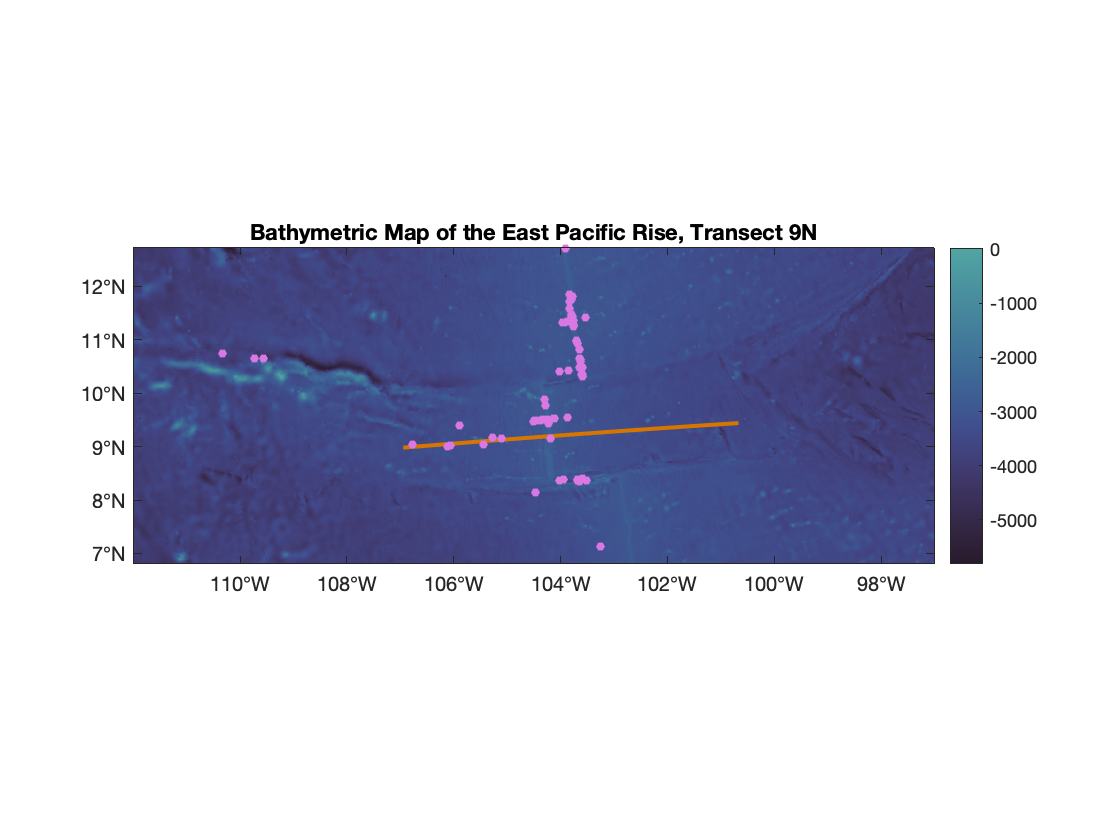
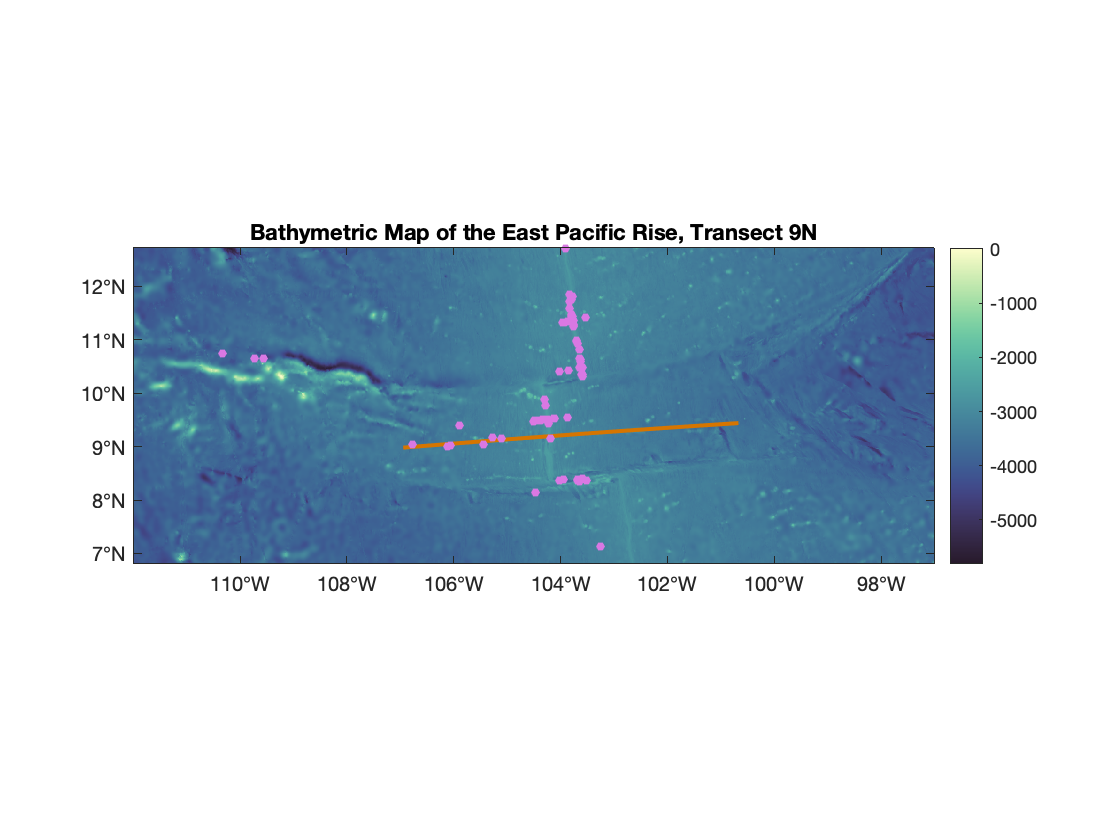
Update figures

Changed region(s): [[0.0938, 0.2786, 0.875, 0.681]]

diff --git a/Earthquake_Data_Code.m b/Earthquake_Data_Code.m
@@ -51,7 +51,7 @@ hold on
 scatter(EPR_Earthquake_Data.Lon, EPR_Earthquake_Data.Lat,10,[0.9290 0.6940 0.1250],'filled')
 axis xy
 set(gca,'DataAspectRatio',[1 1 1])
-cmocean('-deep','pivot',max(MAR_Depth,[],'all')) % same color scale as MAR
+cmocean('-deep')
 colorbar('location','eastoutside')
 title('M > 5 Epicenters (1960-2020) at the East Pacific Rise, Transect 9N')
 yticklabels({'7°N','8°N','9°N','10°N','11°N','12°N'})
@@ -62,10 +62,10 @@ hold off
 subplot(2,1,2)
 imagesc(MAR_Lon, MAR_Lat, MAR_Depth)
 hold on
-scatter(MAR_Earthquake_Data.Lon, MAR_Earthquake_Data.Lat,10,[0.3010 0.7450 0.9330],'filled')
+scatter(MAR_Earthquake_Data.Lon, MAR_Earthquake_Data.Lat,10,[0.4940 0.1840 0.5560],'filled')
 axis xy
 set(gca,'DataAspectRatio',[1 1 1])
-cmocean('-deep','pivot',max(MAR_Depth,[],'all'))
+cmocean('-deep')
 colorbar('location','eastoutside')
 title('M > 5 Epicenters (1960-2020) at the Northern Mid-Atlantic Ridge')
 yticklabels({'22°N','24°N','26°N','28°N','30°N'})

diff --git a/Bathymetry_Code.m b/Bathymetry_Code.m
@@ -50,7 +50,7 @@ plot(EPR_depth_data.Lon, EPR_depth_data.Lat,'LineWidth',2,'Color',ColorEPR)
 scatter(EPR_Chem_extract.Lon(index),EPR_Chem_extract.Lat(index),20,[0.85 0.47 0.89],'filled')
 axis xy
 set(gca,'DataAspectRatio',[1 1 1])
-cmocean('-deep','pivot',max(MAR_Depth,[],'all')) % same color scale as MAR
+cmocean('-deep')
 colorbar('location','eastoutside')
 title('Bathymetric Map of the East Pacific Rise, Transect 9N')
 yticklabels({'7°N','8°N','9°N','10°N','11°N','12°N'})
@@ -66,7 +66,7 @@ plot(MAR_depth_data.Lon, MAR_depth_data.Lat,'LineWidth',2,'Color',ColorMAR)
 scatter(MAR_Chem_extract.Lon,MAR_Chem_extract.Lat,20,[0.85 0.47 0.89],'filled')
 axis xy
 set(gca,'DataAspectRatio',[1 1 1])
-cmocean('-deep','pivot',max(MAR_Depth,[],'all'))
+cmocean('-deep')
 colorbar('location','eastoutside')
 title('Bathymetric Map of the Northern Mid-Atlantic Ridge')
 yticklabels({'22°N','24°N','26°N','28°N','30°N'})
